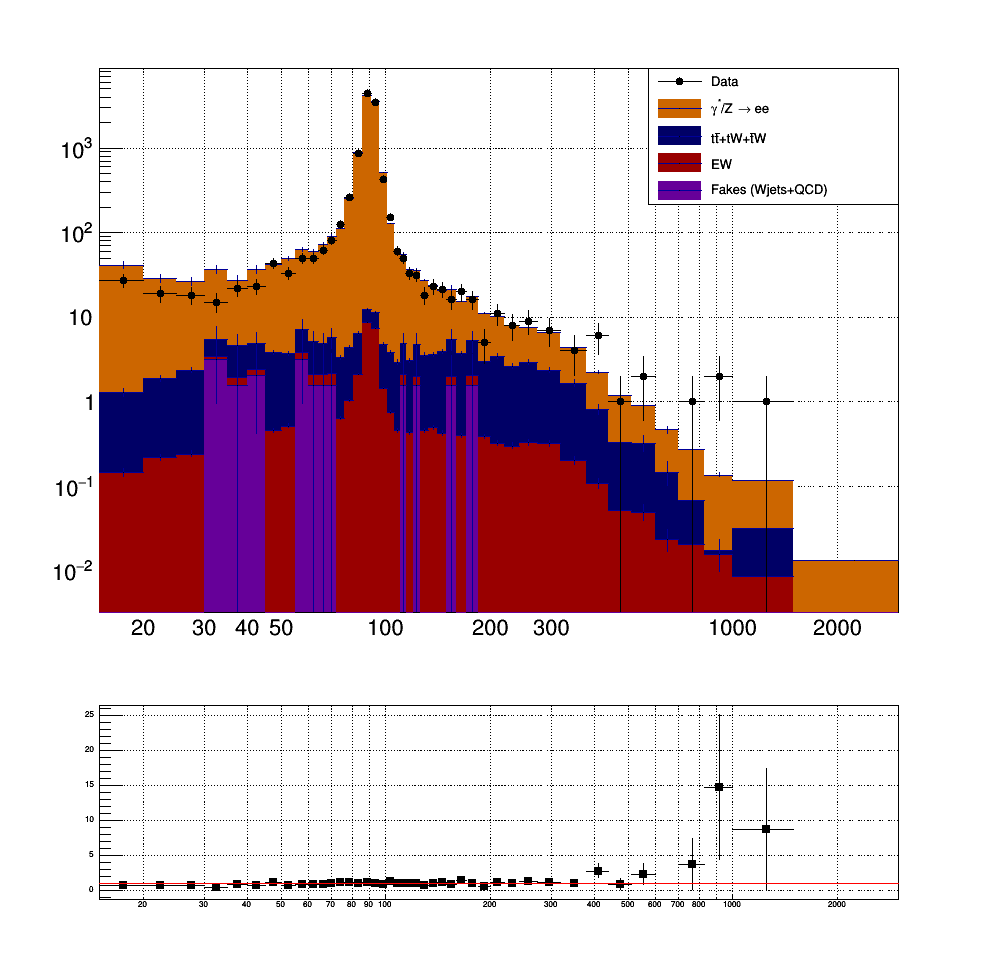
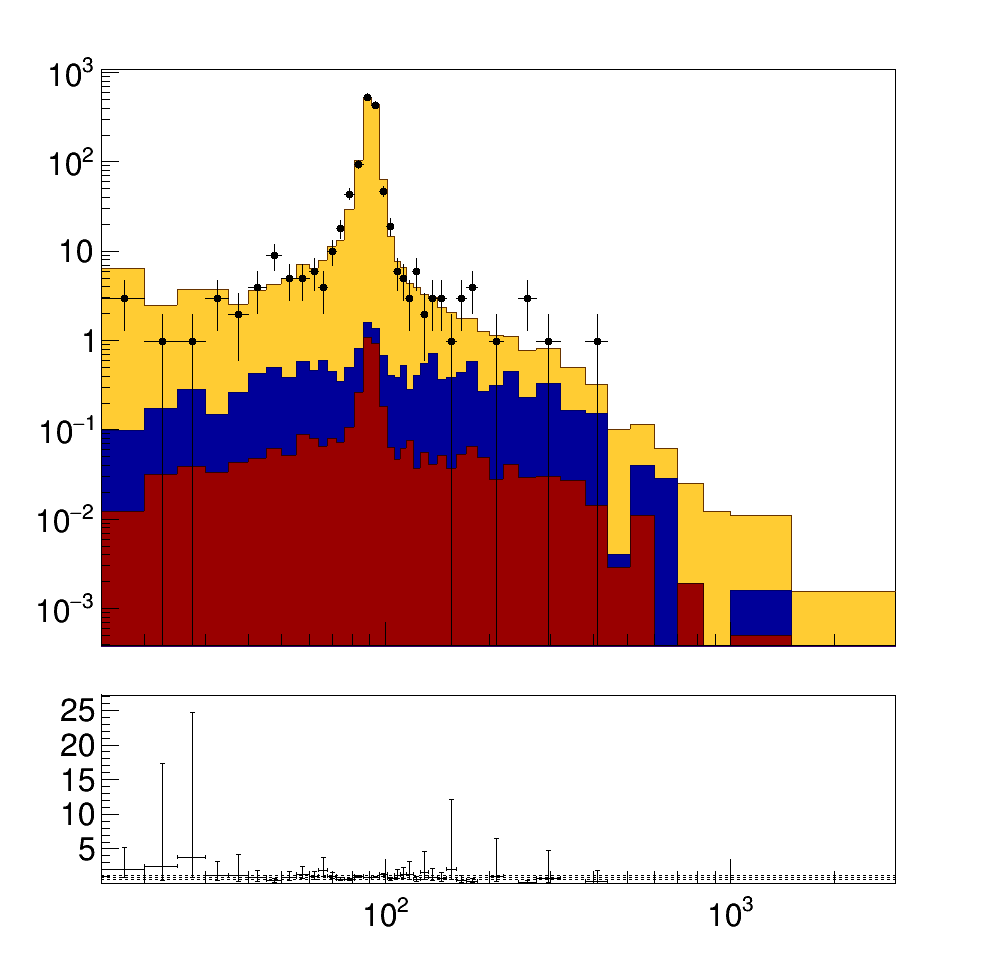
added a plot

diff --git a/dataDYtoLL.C b/dataDYtoLL.C
@@ -183,7 +183,7 @@ void dataDYtoLL()
     {
       chains[iChain] = new TChain(treeName);
 
-      for(int k=0;k<100;k++)//Loop over individual files: ntuple_skim_k.root
+      for(int k=0;k<10;k++)//Loop over individual files: ntuple_skim_k.root
 	{
 	  if(iChain<2 || (iChain>5&&iChain<14))//0,1,6,7,8,9,10,11,12,13
 	    {//W+Jets, QCD20to30, QCD170to300, QCD300toInf, ZZ, WW, WZ, TT, tW top, tW anti
@@ -428,13 +428,13 @@ void dataDYtoLL()
   TString compareHLT = "HLT_Ele23_Ele12_CaloIdL_TrackIdL_IsoVL_DZ_v*";
   TString trigName;
   int trigNameSize;
-  //nentries = 100000;
-  double lumi = chains[15]->GetEntries()/xSec[15]; //luminosity of 50to100
-  //double lumi = nentries/xSec[15];
+  nentries = 100000;
+  //double lumi = chains[15]->GetEntries()/xSec[15]; //luminosity of 50to100
+  double lumi = nentries/xSec[15];
   for(int iChain=0;iChain<numChains;iChain++)
     {
-      //nentries = 100000;
-      nentries = chains[iChain]->GetEntries();
+      nentries = 100000;
+      //nentries = chains[iChain]->GetEntries();
       if(chains[iChain]->GetEntries() < nentries) nentries = chains[iChain]->GetEntries();
       weight=lumi*(xSec[iChain]/nentries);
       cout << endl;
@@ -442,8 +442,8 @@ void dataDYtoLL()
       for(Long64_t i=0;i<nentries;i++)
 	{      
 	  chains[iChain]->GetEntry(i);
-	  counter(count,totalentries);
-	  //counter(count,26*nentries);
+	  //counter(count,totalentries);
+	  counter(count,26*nentries);
 	  count = count+1;      
 	    
 	  //HLT cut
@@ -487,27 +487,27 @@ void dataDYtoLL()
 		  if(iChain==25)
 		    {
 		      hDataInvMass->Fill(invMass);
-		      if(invMass>=60&&invMass<120) hDataInvMasslinear->Fill(invMass);
+		      hDataInvMasslinear->Fill(invMass);
 		    }
 		  if(iChain<8) 
 		    {
 		      hFakes->Fill(invMass,weight);
-		      if(invMass>=60&&invMass<120) hFakeslinear->Fill(invMass,weight);
+		      hFakeslinear->Fill(invMass,weight);
 		    }
 		  if(iChain>7&&iChain<11) 
 		    {
 		      hEW->Fill(invMass,weight);
-		      if(invMass>=60&&invMass<120) hEWlinear->Fill(invMass,weight);
+		      hEWlinear->Fill(invMass,weight);
 		    }
 		  if(iChain>10&&iChain<14) 
 		    {
 		      hTops->Fill(invMass,weight);
-		      if(invMass>=60&&invMass<120) hTopslinear->Fill(invMass,weight);
+		      hTopslinear->Fill(invMass,weight);
 		    }		  
 		  else 
 		    {
 		      hMCInvMass->Fill(invMass,weight);
-		      if(invMass>=60&&invMass<120) hMCInvMasslinear->Fill(invMass,weight);
+		      hMCInvMasslinear->Fill(invMass,weight);
 		    }
 		}//end inner electron loop	   
 	    }//end electron loop
